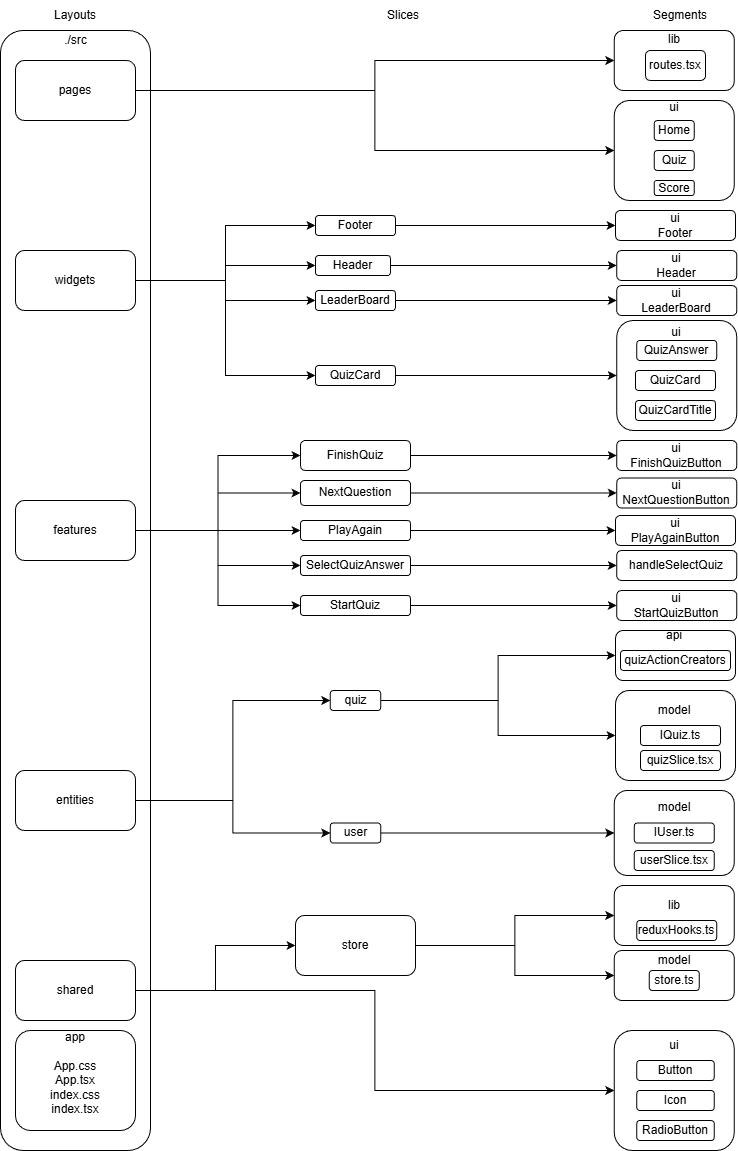
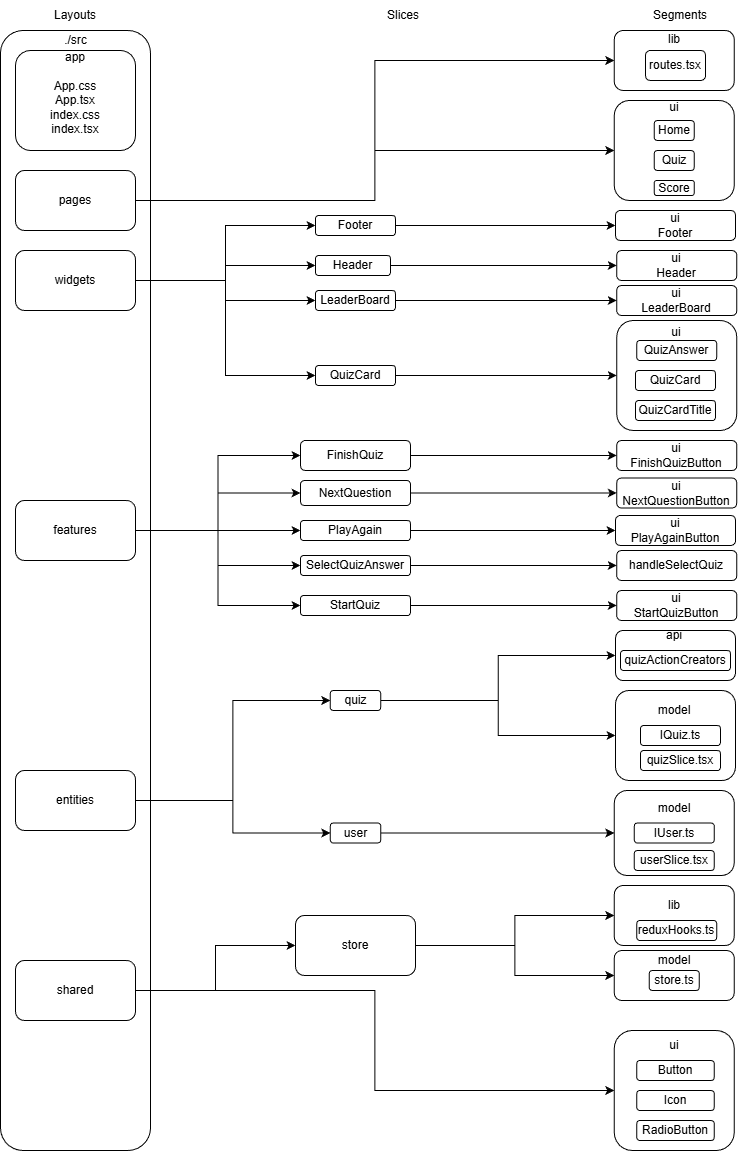
fixed readme according to changes in project

diff --git a/README.md b/README.md
@@ -38,9 +38,8 @@ To speed up the development process, it was decided to use anonymous sessions:
 - 3⃣ On the next visit user's id would from local storage taken
 
 Also, I configured [aliasing paths](https://dev.to/tilly/aliasing-in-vite-w-typescript-1lfo) in the project for all layers.
-For now not all Components were 
-divided into [presentational and container](https://medium.com/@dan_abramov/smart-and-dumb-components-7ca2f9a7c7d0), 
-eslint was not configured and there is ability to see only current user's score.
+For linting & formatting I use [Biome](https://biomejs.dev).
+For now not all Components were divided into [presentational and container](https://medium.com/@dan_abramov/smart-and-dumb-components-7ca2f9a7c7d0).
 
 ## Design decisions
 Due to overall small size of the application, it was decided 
